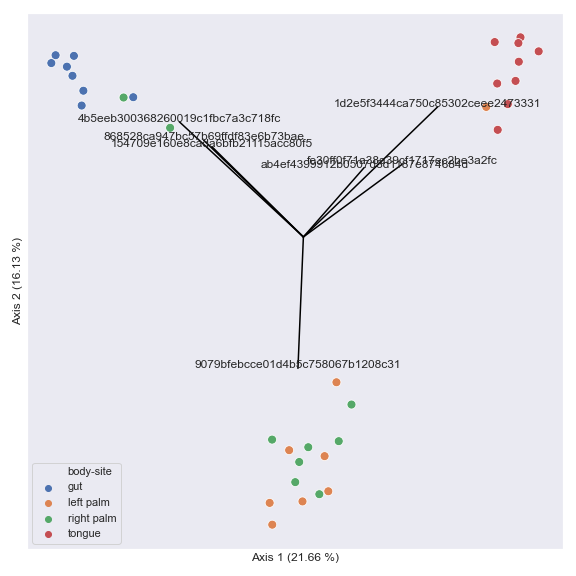
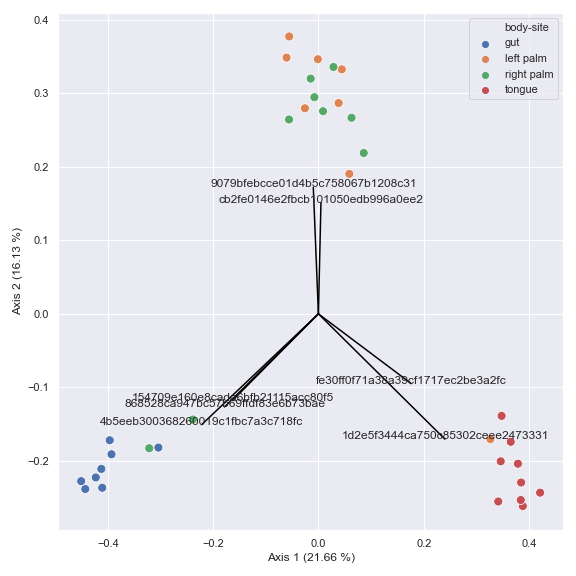
Update API

diff --git a/dokdo/api/ordinate.py b/dokdo/api/ordinate.py
@@ -66,32 +66,69 @@ def ordinate(
     used is ``jaccard``. The resulting object ``pcoa`` can be directly
     used for plotting by the ``dokdo.beta_2d_plot`` method as shown below.
 
-    >>> table_file = '/Users/sbslee/Desktop/dokdo/data/moving-pictures-tutorial/table.qza'
-    >>> metadata_file = '/Users/sbslee/Desktop/dokdo/data/moving-pictures-tutorial/sample-metadata.tsv'
-    >>> pcoa_results = dokdo.ordinate(table_file)
-    >>> dokdo.beta_2d_plot(pcoa_results, metadata=metadata_file, hue='body-site', artist_kwargs=dict(show_legend=True))
-    >>> plt.tight_layout()
+    .. code:: python3
+
+        import dokdo
+        import matplotlib.pyplot as plt
+        %matplotlib inline
+        import seaborn as sns
+        sns.set()
+
+        qza_file = '/Users/sbslee/Desktop/dokdo/data/moving-pictures-tutorial/table.qza'
+        metadata_file = '/Users/sbslee/Desktop/dokdo/data/moving-pictures-tutorial/sample-metadata.tsv'
+
+        pcoa_results = dokdo.ordinate(qza_file)
+
+        dokdo.beta_2d_plot(
+            pcoa_results,
+            metadata=metadata_file,
+            hue='body-site',
+            figsize=(8, 8)
+        )
+
+        plt.tight_layout()
 
     .. image:: images/ordinate-1.png
 
     You can choose a subset of samples.
 
-    >>> from qiime2 import Metadata
-    >>> mf = dokdo.get_mf(metadata_file)
-    >>> mf = mf[mf['body-site'].isin(['gut', 'left palm'])]
-    >>> pcoa_results = dokdo.ordinate(table_file, metadata=Metadata(mf))
-    >>> dokdo.beta_2d_plot(pcoa_results, metadata=metadata_file, hue='body-site', artist_kwargs=dict(show_legend=True))
-    >>> plt.tight_layout()
+    .. code:: python3
+
+        from qiime2 import Metadata
+
+        mf = dokdo.get_mf(metadata_file)
+        mf = mf[mf['body-site'].isin(['gut', 'left palm'])]
+
+        pcoa_results = dokdo.ordinate(qza_file, metadata=Metadata(mf))
+
+        dokdo.beta_2d_plot(
+            pcoa_results,
+            metadata=metadata_file,
+            hue='body-site',
+            figsize=(8, 8)
+        )
+
+        plt.tight_layout()
 
     .. image:: images/ordinate-2.png
 
     You can also generate a biplot.
 
-    >>> pcoa_results = dokdo.ordinate(table_file, biplot=True, number_of_dimensions=10)
-    >>> fig, ax = plt.subplots(1, 1, figsize=(8, 8))
-    >>> dokdo.beta_2d_plot(pcoa_results, ax=ax, metadata=metadata_file, hue='body-site', artist_kwargs=dict(show_legend=True))
-    >>> dokdo.addbiplot(pcoa_results, ax=ax, count=7)
-    >>> plt.tight_layout()
+    .. code:: python3
+
+        pcoa_results = dokdo.ordinate(qza_file, biplot=True, number_of_dimensions=10)
+
+        ax = dokdo.beta_2d_plot(
+            pcoa_results,
+            metadata=metadata_file,
+            hue='body-site',
+            figsize=(8, 8)
+        )
+
+
+        dokdo.addbiplot(pcoa_results, ax=ax, count=7)
+
+        plt.tight_layout()
 
     .. image:: images/ordinate-3.png
     """
